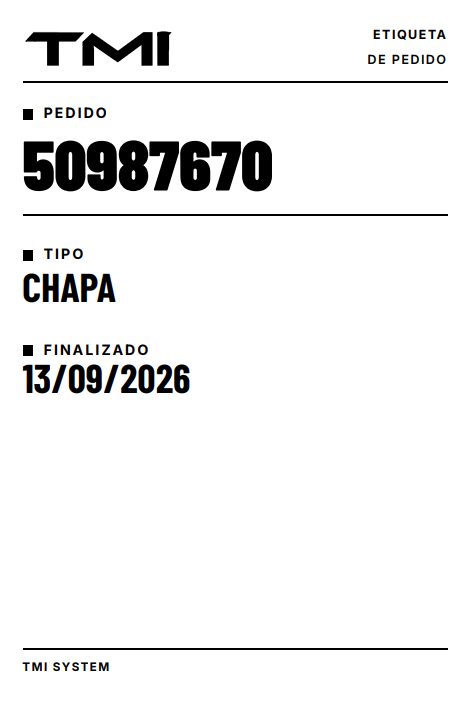
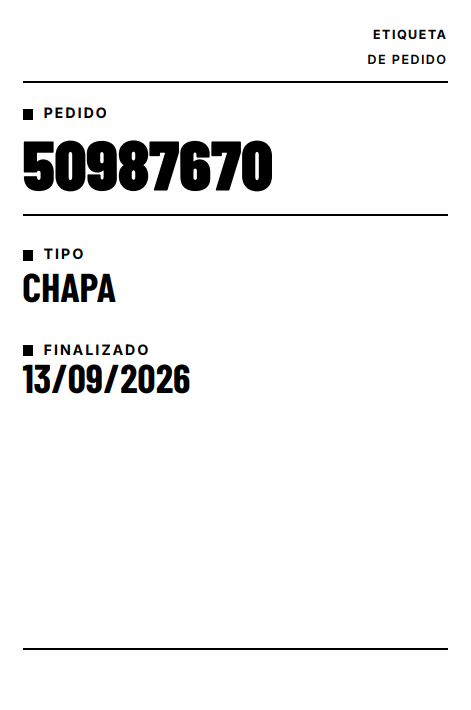
README, capturas y muestra sin datos de empresa

Changed region(s): [[0.0594, 0.031, 0.3567, 0.093], [0.0297, 0.9296, 0.2378, 0.9606]]

diff --git a/README.md b/README.md
@@ -1,6 +1,6 @@
-# TMI n8n Automations · Automatización de pedidos
+# n8n Order Automation · Automatización de pedidos
 
-Dos flujos de n8n en producción en TMI System que llevan cada pedido desde el correo del cliente hasta el taller, sin registro manual.
+Dos flujos de n8n en producción que llevan cada pedido de un taller de chapa desde el correo del cliente hasta el taller, sin registro manual.
 
 > El flujo de pedidos está exportado, sin datos sensibles, en [`sample/`](sample/). Demo disponible bajo petición.
 
